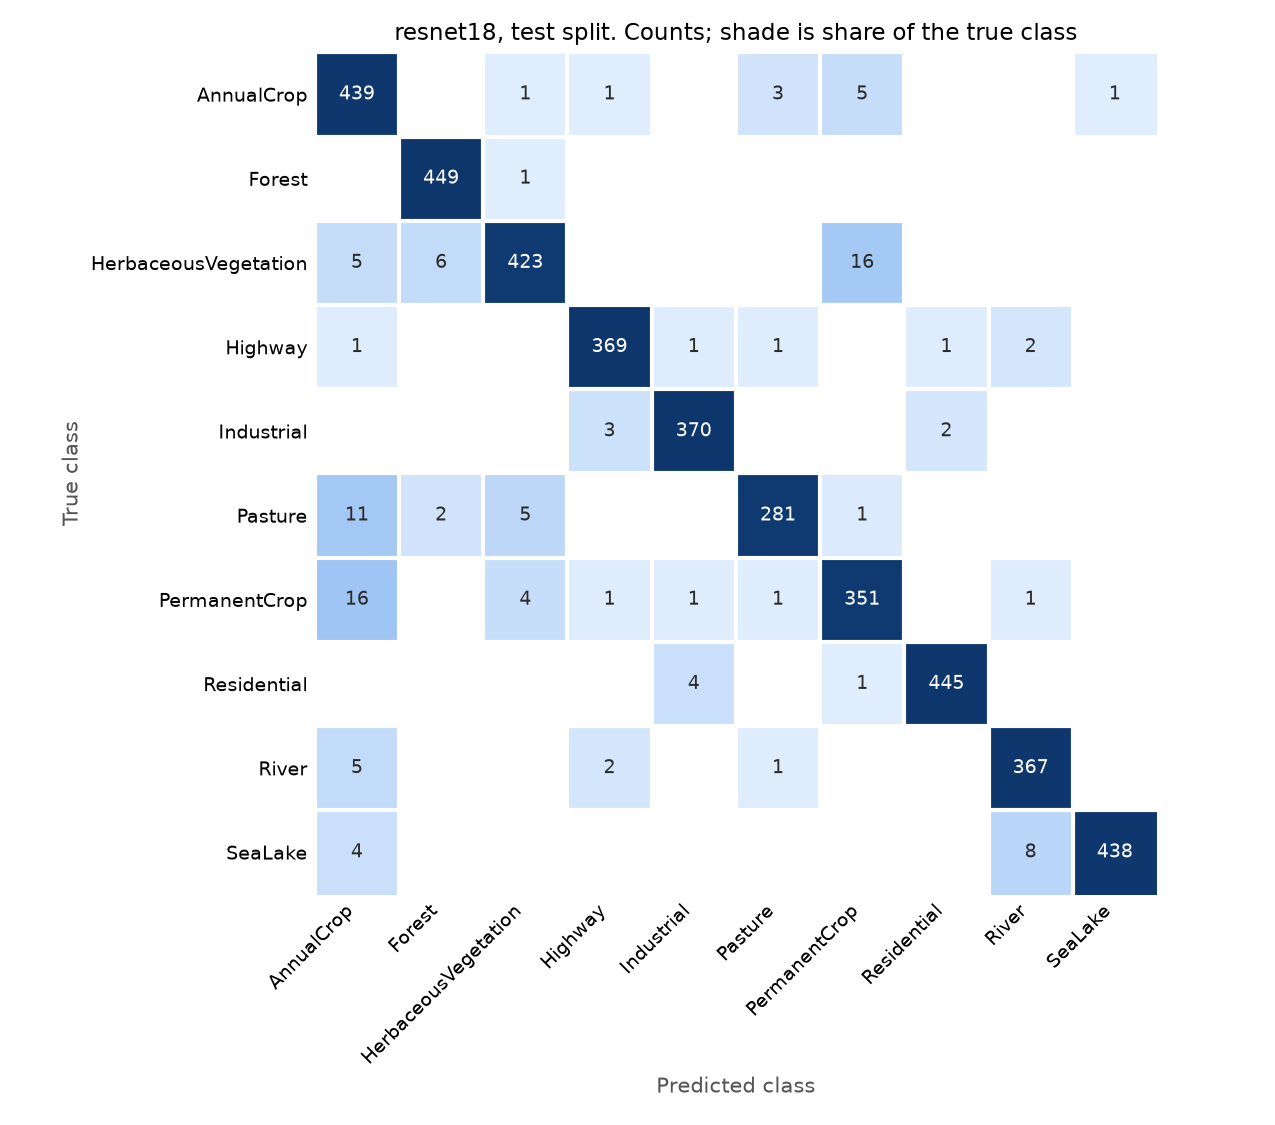
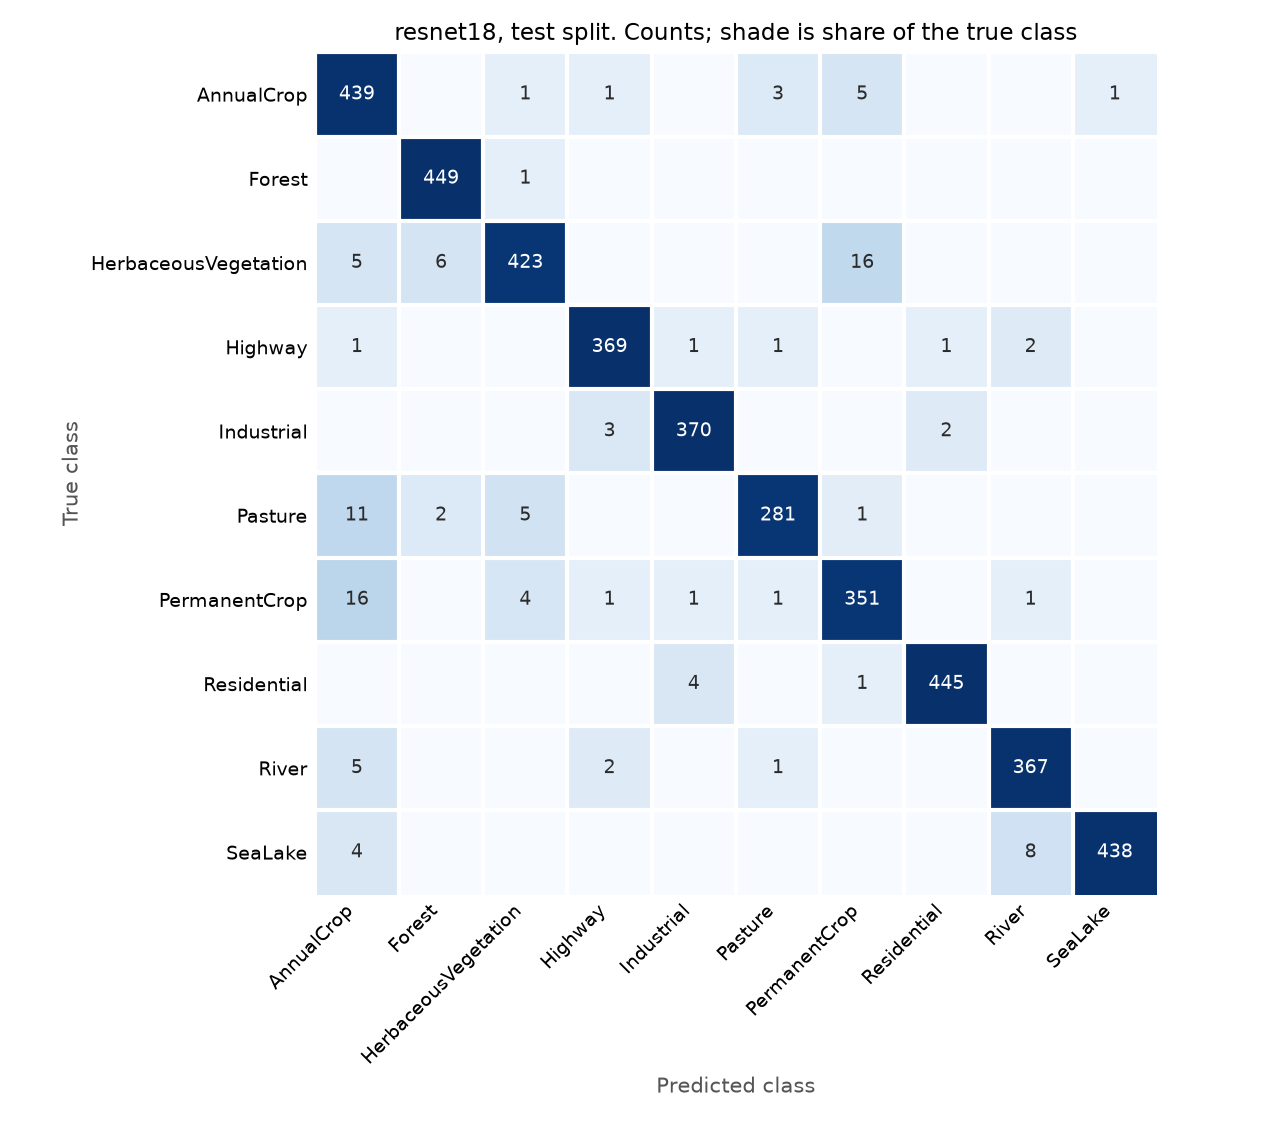
refactor: simplify evaluation and training helpers, trim filler tests
The train-only channel stats for the small CNN were computed in two
places, train_scratch.py and evaluate.py. They now come from one
channel_stats helper, so the evaluation path cannot drift from what the
model was trained with.

evaluate.py uses matplotlib's built-in Blues colormap instead of a
hand-picked eight color ramp. The figure was redrawn from the confusion
matrix already saved in results/test.json, so the test split was not
scored again. Test labels come straight from numpy instead of a round
trip through a torch tensor.

baseline.py computes val before test like every other script, and the
cache check in dataset.py now describes what it actually guards against.

Drops two scaffold smoke tests that could not fail (a class being a
subclass of ImageFolder, an enum member not being None) and a redundant
assert in the split tests. The pin checks stay.

Changed region(s): [[0.2447, 0.4044, 0.3365, 0.5911], [0.6424, 0.1867, 0.7341, 0.28]]

diff --git a/src/evaluate.py b/src/evaluate.py
@@ -10,7 +10,7 @@ matplotlib.use("Agg")
 import matplotlib.pyplot as plt
 import numpy as np
 import torch
-from matplotlib.colors import LinearSegmentedColormap, PowerNorm
+from matplotlib.colors import PowerNorm
 from sklearn.metrics import confusion_matrix
 
 import train_resnet
@@ -24,9 +24,6 @@ FIGURE_PATH = Path("figures/confusion_matrix.png")
 
 # Class pairs named in the plan as the likely confusions, checked either way round
 PAIRS_OF_INTEREST = [("Highway", "River"), ("PermanentCrop", "HerbaceousVegetation")]
-
-# Single-hue blue ramp, light to dark
-BLUES = ["#ffffff", "#cde2fb", "#9ec5f4", "#6da7ec", "#3987e5", "#256abf", "#184f95", "#0d366b"]
 
 
 def choose_model(val_accuracies):
@@ -49,10 +46,7 @@ def predict_test(name, images, split, num_classes):
         return train_resnet.predict(model, images[split["test"]])
 
     # Same train-only channel stats the scratch CNN was trained with
-    train_float = images[split["train"]].float() / 255.0
-    mean = train_float.mean(dim=(0, 2, 3)).view(1, 3, 1, 1)
-    std = train_float.std(dim=(0, 2, 3)).view(1, 3, 1, 1)
-    del train_float
+    mean, std = train_scratch.channel_stats(images[split["train"]])
     model = SmallCNN(num_classes=num_classes)
     model.load_state_dict(torch.load(train_scratch.CHECKPOINT_PATH))
     return train_scratch.predict(model, images[split["test"]], mean, std)
@@ -63,8 +57,7 @@ def plot_confusion(cm, class_names, path, model_name):
     share = cm / cm.sum(axis=1, keepdims=True)
     fig, ax = plt.subplots(figsize=(8.5, 7.5))
     # Power scale so a 2-5% error cell is visibly tinted next to a 95% diagonal
-    ax.imshow(share, cmap=LinearSegmentedColormap.from_list("blues", BLUES),
-              norm=PowerNorm(gamma=0.4, vmin=0, vmax=1))
+    ax.imshow(share, cmap="Blues", norm=PowerNorm(gamma=0.4, vmin=0, vmax=1))
 
     for i in range(len(cm)):
         for j in range(len(cm)):
@@ -109,9 +102,8 @@ def main():
     dataset = load_eurosat()
     class_names = dataset.classes
     images = torch.from_numpy(load_images(dataset))
-    labels = torch.tensor(dataset.targets)
     split = load_split(SPLIT_PATH, dataset.targets)
-    test_y = labels[split["test"]].numpy()
+    test_y = np.array(dataset.targets)[split["test"]]
 
     test_preds = predict_test(chosen, images, split, len(class_names)).numpy()
     n = len(test_y)

diff --git a/tests/test_environment.py b/tests/test_environment.py
@@ -1,13 +1,7 @@
-"""Smoke tests: a fresh checkout has the pinned stack and can reach EuroSAT.
-
-These do not download the dataset. They assert the pins in requirements.txt are
-what actually got installed, so a checkout that silently resolved a different
-torch does not get discovered halfway through a training run.
-"""
+"""The installed torch and torchvision match the pins in requirements.txt."""
 
 import torch
 import torchvision
-from torchvision.datasets import EuroSAT
 
 
 def test_torch_pin():
@@ -16,14 +10,3 @@ def test_torch_pin():
 
 def test_torchvision_pin():
     assert torchvision.__version__.split("+")[0] == "0.29.0"
-
-
-def test_eurosat_dataset_available():
-    assert issubclass(EuroSAT, torchvision.datasets.ImageFolder)
-
-
-def test_resnet18_imagenet_weights_enumerated():
-    """The transfer-learning arm needs pretrained weights to exist by name."""
-    from torchvision.models import ResNet18_Weights
-
-    assert ResNet18_Weights.IMAGENET1K_V1 is not None

diff --git a/src/train_scratch.py b/src/train_scratch.py
@@ -18,6 +18,12 @@ RESULTS_PATH = Path("results/small_cnn.json")
 CHECKPOINT_PATH = Path("models/small_cnn.pt")
 
 
+def channel_stats(train_images):
+    """Per-channel mean and std of the train images, shaped to broadcast over a batch."""
+    x = train_images.float() / 255.0
+    return x.mean(dim=(0, 2, 3)).view(1, 3, 1, 1), x.std(dim=(0, 2, 3)).view(1, 3, 1, 1)
+
+
 def to_float(batch, mean, std):
     return (batch.float() / 255.0 - mean) / std
 
@@ -75,10 +81,7 @@ def main():
     val_x, val_y = images[split["val"]], labels[split["val"]]
 
     # Channel stats from train only, so val leaks nothing
-    train_float = train_x.float() / 255.0
-    mean = train_float.mean(dim=(0, 2, 3)).view(1, 3, 1, 1)
-    std = train_float.std(dim=(0, 2, 3)).view(1, 3, 1, 1)
-    del train_float
+    mean, std = channel_stats(train_x)
 
     model = SmallCNN(num_classes=len(dataset.classes))
     optimizer = torch.optim.Adam(model.parameters(), lr=LEARNING_RATE)

diff --git a/src/dataset.py b/src/dataset.py
@@ -22,9 +22,10 @@ def load_images(dataset):
     """All images as (N, 3, 64, 64) uint8, in dataset index order."""
     if CACHE_PATH.exists():
         images = np.load(CACHE_PATH)
-        # Partial download would desync images and labels
+        # A cache left over from a different download would misalign images and labels
         if len(images) != len(dataset):
-            raise ValueError(f"{CACHE_PATH} has {len(images)} images, dataset has {len(dataset)}. Delete it and rerun.")
+            raise ValueError(f"{CACHE_PATH} has {len(images)} images, dataset has {len(dataset)}. "
+                             "Delete it and rerun.")
         return images
 
     # Decoding 27k JPEGs every epoch is the slow part on CPU

diff --git a/src/baseline.py b/src/baseline.py
@@ -22,8 +22,8 @@ def main():
     labels = np.array(dataset.targets)
     split = load_split(SPLIT_PATH, labels)
 
-    majority, test_acc = majority_class_accuracy(labels[split["train"]], labels[split["test"]])
-    _, val_acc = majority_class_accuracy(labels[split["train"]], labels[split["val"]])
+    majority, val_acc = majority_class_accuracy(labels[split["train"]], labels[split["val"]])
+    _, test_acc = majority_class_accuracy(labels[split["train"]], labels[split["test"]])
     name = dataset.classes[majority]
 
     print(f"Majority class in train: {name}")

diff --git a/tests/test_split.py b/tests/test_split.py
@@ -24,7 +24,6 @@ def test_split_is_disjoint_and_complete():
     labels = make_labels()
     train, val, test = stratified_split(labels, seed=42)
     all_idx = np.concatenate([train, val, test])
-    assert len(set(all_idx)) == len(labels)
     assert sorted(all_idx) == list(range(len(labels)))
 
 
